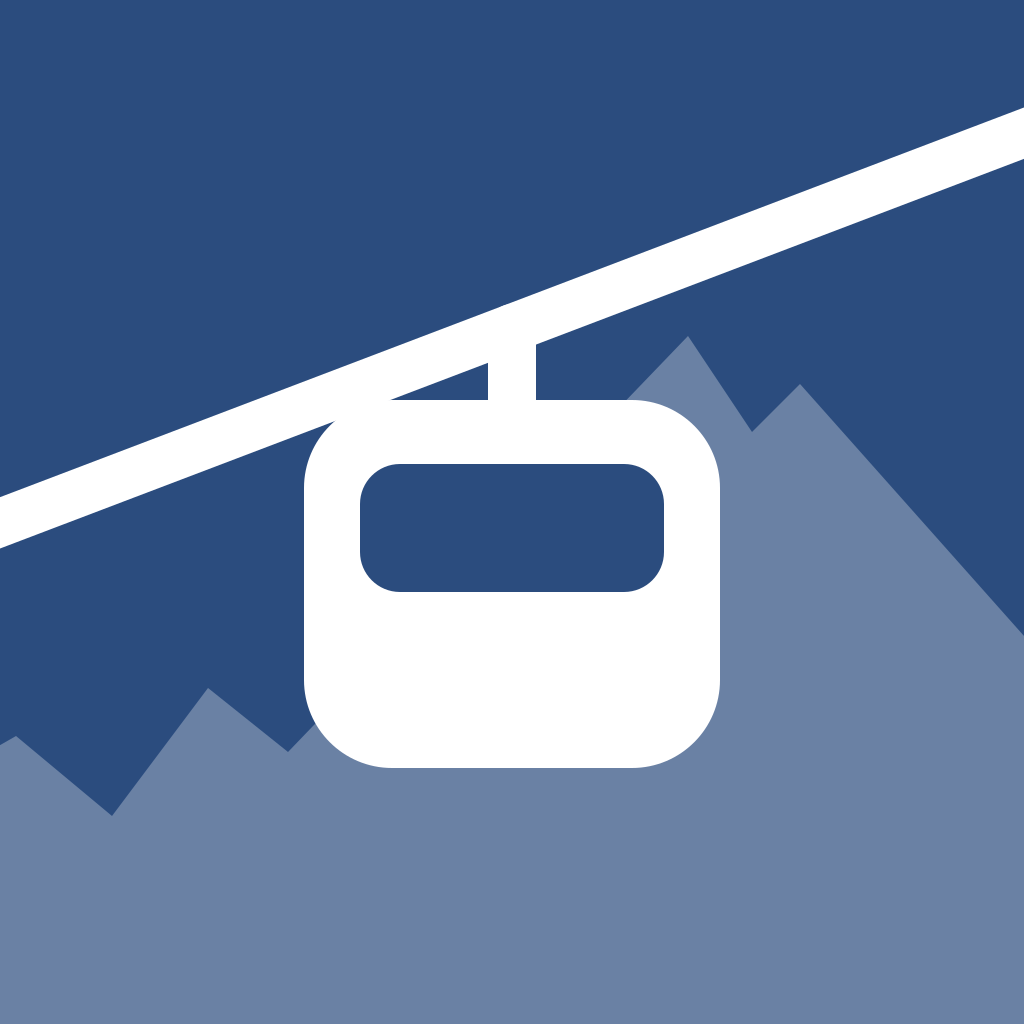
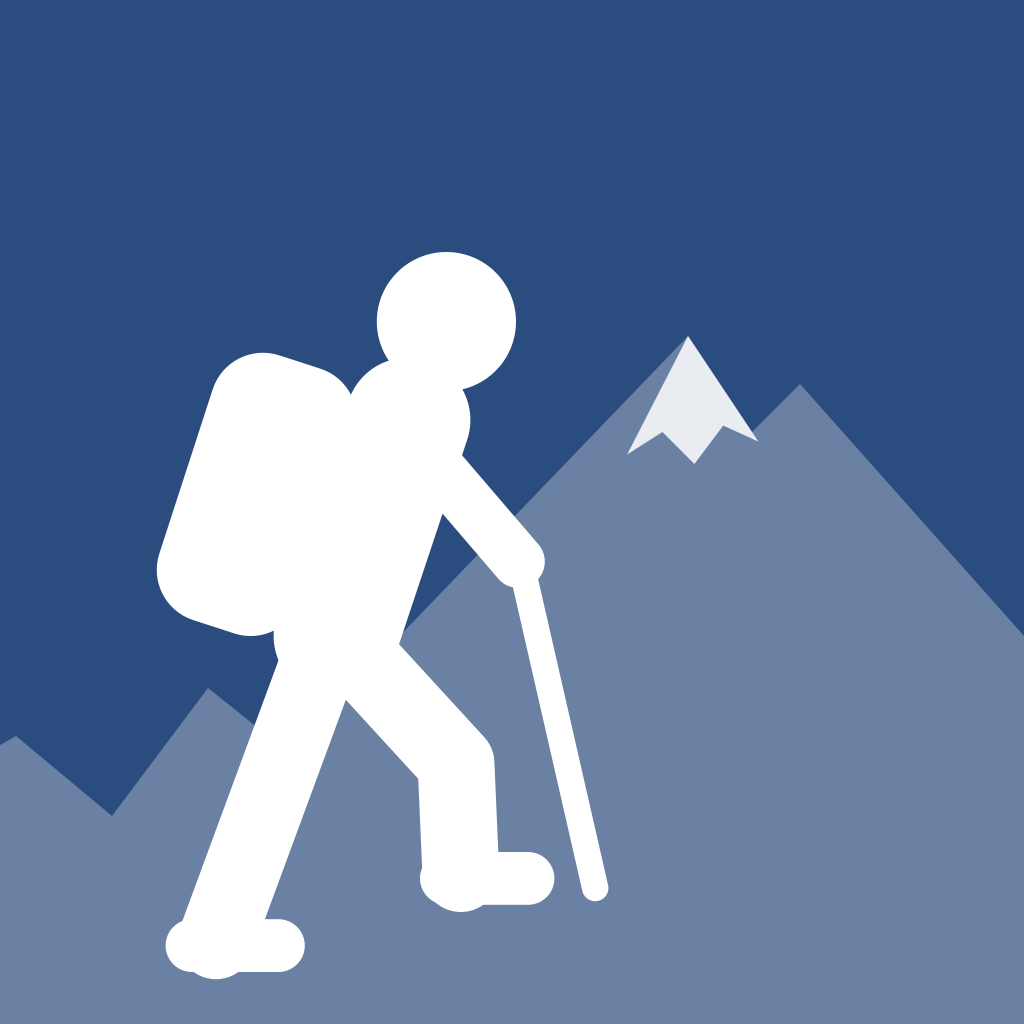
design(logga): vandrare uppför glaciärberget ersätter kabinbanan
- Loggan: en vit vandrare i profil med ryggsäck och stav på väg uppför
  berget, som nu har en glaciär på toppen (Oscars önskemål). Fliken och
  favicon får en förenklad variant med större vandrare och utan glaciär.
  LogoMark, icon.svg, favicon.ico, apple-icon.png och docs/logga/ är
  omgjorda; testet bekräftar att komponenten och loggfilen har samma former.
- Bakgrunden: kabinbanan är borttagen (lina, mast, stationer, kabin).
  Glaciärer på huvudberget och topparna bakom, med en åskant i bergets ton
  så att snön syns mot ljus himmel, och platta moln på himlen. Snöfärgen
  (--snow) är vit i ljust läge och ljust blågrå i mörkt läge.
- AGENTS.md, DESIGN.md, PRODUCT.md och docs/logga/README.md beskriver den
  nya loggan och bakgrunden.

Changed region(s): [[0.0, 0.0938, 1.0, 0.9688]]

diff --git a/src/components/mountain-backdrop.tsx b/src/components/mountain-backdrop.tsx
@@ -1,6 +1,7 @@
 /**
- * Sidans bakgrund (Oscar, 2026-11-09): en vandrare snett bakifrån på en stig
- * uppför loggans berg, med kabinbanan ovanför. Ligger stilla längst ner bakom
+ * Sidans bakgrund (Oscar, 2026-11-09, glaciärer och moln 2026-11-10): en
+ * vandrare snett bakifrån på en stig uppför loggans berg, med glaciärer på
+ * topparna och moln på himlen. Ligger stilla längst ner bakom
  * innehållet, i dämpade toner av temats färger, så den följer ljust och mörkt
  * läge. Dekorativ och utan klick.
  */
@@ -28,21 +29,67 @@ const trailSegments = TRAIL.slice(0, -1).map((p1, i) => {
   return { d: `M${p1} C${c1} ${c2} ${p2}`, width: Math.round(34 * 0.78 ** i * 10) / 10 };
 });
 
+// Snötäcken på topparna i bergskedjan bakom (huvudberget täcker en del av dem).
+const FAR_GLACIERS = [
+  "M-508 546 L-470 520 L-434 546 L-446 542 L-456 552 L-468 540 L-482 552 L-494 542 Z",
+  "M293 550 L330 520 L373 551 L360 546 L350 556 L338 544 L322 556 L308 546 Z",
+  "M1374 476 L1390 450 L1423 476 L1412 472 L1402 482 L1394 470 L1384 480 Z",
+  "M1892 496 L1930 470 L1967 497 L1956 492 L1946 502 L1934 490 L1920 502 L1906 492 Z",
+];
+
+// Åskanten ovanför varje snötäcke i kedjan bakom.
+const FAR_RIDGES = ["M-512 549 L-470 520 L-430 549", "M289 553 L330 520 L377 554", "M1370 482 L1390 450 L1427 479", "M1888 499 L1930 470 L1971 500"];
+
+// Ett platt moln med rak undersida (bredd ca 240), och var molnen ligger på himlen.
+const CLOUD =
+  "M0 0 C-22 0 -30 -32 -6 -40 C-6 -68 30 -82 54 -66 C70 -98 124 -100 140 -64 C160 -80 196 -70 196 -44 C222 -46 236 -20 226 0 Z";
+const CLOUDS: ReadonlyArray<readonly [number, number, number]> = [
+  [-560, 170, 0.9], [300, 190, 1], [720, 96, 0.55], [1300, 140, 1.15], [1900, 210, 0.8],
+];
+
 const tint = (percent: number) => `color-mix(in oklab, var(--brand) ${percent}%, var(--paper))`;
 
 export function MountainBackdrop() {
   return (
     <div
       aria-hidden="true"
-      className="pointer-events-none fixed inset-x-0 bottom-[calc(4rem+env(safe-area-inset-bottom))] -z-10 h-[max(min(60vh,56.25vw),29vw)] opacity-55 md:bottom-0 md:left-60 dark:opacity-45 print:hidden"
+      className="pointer-events-none fixed inset-x-0 [--snow:#ffffff] dark:[--snow:color-mix(in_oklab,var(--brand)_42%,var(--paper))] bottom-[calc(4rem+env(safe-area-inset-bottom))] -z-10 h-[max(min(60vh,56.25vw),29vw)] opacity-55 md:bottom-0 md:left-60 dark:opacity-45 print:hidden"
     >
       {/* Scenen är bredare än den syns, så att den bara beskärs i sidled: bergstoppen ryms alltid. */}
       <svg viewBox="-800 0 3200 900" preserveAspectRatio="xMidYMax slice" focusable="false" className="size-full">
+        <g style={{ fill: tint(14) }}>
+          {CLOUDS.map(([x, y, scale]) => (
+            <path key={`${x} ${y}`} d={CLOUD} transform={`translate(${x} ${y}) scale(${scale})`} />
+          ))}
+        </g>
         <path
           d="M-800 640 L-690 580 L-600 610 L-470 520 L-360 600 L-250 560 L-130 610 L0 650 L120 570 L210 618 L330 520 L430 590 L520 556 L620 620 L1300 600 L1390 450 L1470 512 L1540 466 L1600 520 L1700 480 L1800 560 L1930 470 L2040 548 L2160 500 L2280 580 L2400 540 V900 H-800 Z"
           style={{ fill: tint(10) }}
         />
+        <g style={{ fill: "var(--snow)" }}>
+          {FAR_GLACIERS.map((d) => (
+            <path key={d} d={d} />
+          ))}
+        </g>
+        <g fill="none" strokeWidth={5} style={{ stroke: tint(10) }}>
+          {FAR_RIDGES.map((d) => (
+            <path key={d} d={d} />
+          ))}
+        </g>
         <path d={MOUNTAIN_PATH} style={{ fill: tint(22) }} />
+        {/* Glaciärerna på loggans berg: toppen med en isström nedåt, och den lägre toppen till höger. */}
+        <g style={{ fill: "var(--snow)" }}>
+          <path d="M935 320 L1050 200 L1120 305 L1104 330 L1092 318 L1080 360 L1068 420 L1056 400 L1046 350 L1030 372 L1012 342 L990 358 L972 330 L952 340 Z" />
+          <path d="M1170 300 L1204 266 L1243 305 L1232 312 L1222 300 L1212 322 L1198 306 L1186 316 Z" />
+        </g>
+        {/* Åskanten i bergets ton, så att snötopparna har en kontur även mot ljus himmel. */}
+        <path
+          d="M930 326 L1050 200 L1138 332 L1204 266 L1248 310"
+          fill="none"
+          strokeWidth={6}
+          strokeLinejoin="miter"
+          style={{ stroke: tint(22) }}
+        />
         <path
           d="M-800 800 C -500 780, -200 790, 0 812 C 300 772, 560 780, 760 806 C 1000 838, 1300 826, 1600 786 C 1900 760, 2200 790, 2400 800 V900 H-800 Z"
           style={{ fill: tint(34) }}
@@ -51,21 +98,6 @@ export function MountainBackdrop() {
           {trailSegments.map((s) => (
             <path key={s.d} d={s.d} strokeWidth={s.width} />
           ))}
-        </g>
-        {/* Linan från dalstationen upp till toppstationen strax under toppen, med en mast på vägen. */}
-        <path d="M-600 760 L1003 238" strokeWidth={3} style={{ stroke: tint(70) }} />
-        <rect x="-622" y="752" width="44" height="30" rx="3" style={{ fill: tint(55) }} />
-        <g strokeWidth={4} strokeLinecap="round" style={{ stroke: tint(55) }}>
-          <path d="M820 452 L824 300" />
-          <path d="M804 306 L844 293" />
-          <path d="M810 452 L838 452" />
-        </g>
-        <rect x="986" y="236" width="34" height="24" rx="3" style={{ fill: tint(55) }} />
-        {/* Kabinen, ovanför vandraren. */}
-        <g transform="translate(600 365)">
-          <path d="M12 0 v18" strokeWidth={4} strokeLinecap="round" className="stroke-primary" />
-          <rect x="-22" y="16" width="68" height="60" rx="14" className="fill-primary" />
-          <rect x="-13" y="26" width="50" height="20" rx="6" style={{ fill: "var(--paper)" }} />
         </g>
         <Hiker />
       </svg>

diff --git a/src/components/logo-mark.tsx b/src/components/logo-mark.tsx
@@ -1,10 +1,11 @@
 import { useId } from "react";
 
 /**
- * HP Lifts märke: en kabin på väg uppåt över ett berg, i en Skymningsblå ruta.
- * Färgerna kommer från temat (`primary` och `primary-foreground`), så märket
- * följer ljust och mörkt läge. Geometrin är densamma som i docs/logga/, där
- * filerna och reglerna för loggan finns. Dekorativt: namnet står bredvid.
+ * HP Lifts märke: en vandrare med ryggsäck och stav på väg uppför ett berg med
+ * glaciär, i en Skymningsblå ruta. Färgerna kommer från temat (`primary` och
+ * `primary-foreground`), så märket följer ljust och mörkt läge. Geometrin är
+ * densamma som i docs/logga/, där filerna och reglerna för loggan finns.
+ * Dekorativt: namnet står bredvid.
  */
 export function LogoMark({ className }: { className?: string }) {
   // Unikt id, eftersom sidomenyn och mobilens toppfält visar märket samtidigt.
@@ -21,12 +22,39 @@ export function LogoMark({ className }: { className?: string }) {
         <g opacity={0.3}>
           <path d="M-6 70V50l7-4 6 5 6-8 5 4 25-26 4 6 3-3 16 18V70z" className="fill-primary-foreground" />
         </g>
-        <g className="stroke-primary-foreground" strokeWidth={3} strokeLinecap="round">
-          <path d="M-4 34.2 68 6.8" />
-          <path d="M32 20.5v5" />
+        {/* Glaciären på toppen. */}
+        <path
+          d="M43 21 L47.4 27.6 L45.2 26.6 L43.4 29 L41.4 27 L39.2 28.4 Z"
+          className="fill-primary-foreground"
+          opacity={0.85}
+        />
+        {/* Vandraren i profil, fötterna i origo: ben i steg, kängor, framåtlutad kropp, stav, ryggsäck och huvud. */}
+        <g
+          transform="translate(21 60) scale(1.5)"
+          className="stroke-primary-foreground"
+          strokeLinecap="round"
+          strokeLinejoin="round"
+          fill="none"
+        >
+          <path d="M-0.5 -13 L-5 -0.8" strokeWidth={3.2} />
+          <path d="M0.6 -13 L5 -8.2 L5.2 -3.6" strokeWidth={3.2} />
+          <path d="M-6 -0.6 h3.6" strokeWidth={2.2} />
+          <path d="M4.6 -3.4 h3.4" strokeWidth={2.2} />
+          <path d="M0 -13.5 L3 -22.5" strokeWidth={5.2} />
+          <path d="M7.6 -17 L10.8 -3" strokeWidth={1.1} />
+          <path d="M3.4 -21.5 L7.6 -16.6" strokeWidth={2.2} />
+          <rect
+            x="-6.4"
+            y="-25.2"
+            width="6.2"
+            height="11.6"
+            rx="2.2"
+            transform="rotate(18 -3.3 -19.4)"
+            className="fill-primary-foreground"
+            stroke="none"
+          />
+          <circle cx="4.6" cy="-26.6" r="2.9" className="fill-primary-foreground" stroke="none" />
         </g>
-        <rect x="19" y="25" width="26" height="23" rx="5.5" className="fill-primary-foreground" />
-        <rect x="22.5" y="29" width="19" height="8" rx="2.5" className="fill-primary" />
       </g>
     </svg>
   );

diff --git a/DESIGN.md b/DESIGN.md
@@ -160,7 +160,7 @@ A warm paper-and-ink neutral scale with a single dusky blue; colour carries mean
 - **Bläck** (`--ink`): primary text and headings.
 - **Mjukt bläck** (`--ink-soft`): secondary body text and inactive nav labels.
 - **Dämpat bläck** (`--ink-muted`): meta text, captions, icons at rest.
-- **Papper** (`--paper`): the page background, flat. The one exception (Oscar, 2026-11-09): a muted scene fixed at the bottom of the window behind the content, a hiker seen from behind on a trail up the logo's mountain with the cable car above (`MountainBackdrop` in `src/components/mountain-backdrop.tsx`). It uses only tints of Skymningsblå and ink at reduced opacity, and cards must be opaque `bg-card` so text never sits on the scene.
+- **Papper** (`--paper`): the page background, flat. The one exception (Oscar, 2026-11-09): a muted scene fixed at the bottom of the window behind the content, a hiker seen from behind on a trail up the logo's mountain, with glaciers on the peaks and clouds in the sky (`MountainBackdrop` in `src/components/mountain-backdrop.tsx`). It uses only tints of Skymningsblå and ink at reduced opacity (the snow is `--snow`, set on the scene: white in light mode, a pale blue-grey in dark mode), and cards must be opaque `bg-card` so text never sits on the scene.
 - **Yta** (`--card`): cards, panels, inputs, popovers, sidebar and tab bar.
 - **Dimma** (`--mist`): hover rows, progress tracks, chips, subtle fills.
 - **Linje** (`--line`): 1px hairline borders and dividers.
@@ -222,7 +222,7 @@ Lugn is flat. Depth comes from tone (Papper behind, Yta in front) and 1px hairli
 
 ## Shapes
 
-Gently rounded, never pill-shaped. Small controls (chips, nav items, icon buttons) use 6–8px; buttons and inputs 8–10px; cards and panels 10px; menus and popovers 10px; dialogs 12px. `rounded-full` is reserved for avatars, status dots, progress bars, switches and the A–E answer letters. The wordmark's mark is a 28px Skymningsblå square with a 6px radius holding a cable-car cabin on its way up above a mountain: cabin, cable and hanger in `primary-foreground`, the mountain in the same colour at 30% opacity (`LogoMark` in `src/components/logo-mark.tsx`). Files, the simplified favicon version and the rules are in `docs/logga/`.
+Gently rounded, never pill-shaped. Small controls (chips, nav items, icon buttons) use 6–8px; buttons and inputs 8–10px; cards and panels 10px; menus and popovers 10px; dialogs 12px. `rounded-full` is reserved for avatars, status dots, progress bars, switches and the A–E answer letters. The wordmark's mark is a 28px Skymningsblå square with a 6px radius holding a hiker with backpack and pole walking up a mountain: the hiker in `primary-foreground`, the mountain in the same colour at 30% opacity with its glacier at 85% (`LogoMark` in `src/components/logo-mark.tsx`). Files, the simplified favicon version and the rules are in `docs/logga/`.
 
 ## Components
 

diff --git a/docs/logga/README.md b/docs/logga/README.md
@@ -5,8 +5,9 @@
   <img src="hp-lift-logga.svg" alt="HP Lift" height="64">
 </picture>
 
-En kabin på väg uppåt över ett berg, i en Skymningsblå ruta. Kabinen är "lyftet" i HP Lift, och
-linan pekar samma håll som poängen ska gå: uppåt. Bestämd av Oscar 2026-11-08.
+En vandrare med ryggsäck och stav på väg uppför ett berg med glaciär, i en Skymningsblå ruta. Vandraren
+går åt samma håll som poängen ska: uppåt. Bestämd av Oscar 2026-11-10 (ersatte kabinbanan från 2026-11-08).
+Samma berg och samma vandrare finns i sidans bakgrund (`src/components/mountain-backdrop.tsx`).
 
 ## Filer
 
@@ -15,7 +16,7 @@ linan pekar samma håll som poängen ska gå: uppåt. Bestämd av Oscar 2026-11-
 | `hp-lift-logga.svg` | Ordbilden (märke + "HP Lift") på ljus bakgrund |
 | `hp-lift-logga-mork.svg` | Ordbilden på mörk bakgrund |
 | `hp-lift-symbol.svg`, `hp-lift-symbol-mork.svg` | Bara märket, från 20 px och uppåt |
-| `hp-lift-symbol-liten.svg` | Förenklat märke under 20 px (större kabin, tjockare lina). Samma som `src/app/icon.svg` |
+| `hp-lift-symbol-liten.svg` | Förenklat märke under 20 px (större vandrare, ingen glaciär). Samma som `src/app/icon.svg` |
 | `hp-lift-app-ikon.svg`, `hp-lift-app-ikon-1024.png` | App-ikon utan rundade hörn (iOS och appbutiker rundar själva), t.ex. för Capacitor-appen |
 
 I appen ritas märket av `LogoMark` (`src/components/logo-mark.tsx`) i sidomenyn och i mobilens toppfält.
@@ -25,13 +26,13 @@ Det tar färgerna från temat, så det följer ljust och mörkt läge. Webbläsa
 ## Regler
 
 - **Färger:** ljust läge Skymningsblå `#2b4c7e` med vitt, mörkt läge `#8da9d6` med `#10161f`. Berget är
-  samma färg som kabinen med 30 % täckning. Inga andra färger, inga övertoningar och inga skuggor
+  samma färg som vandraren med 30 % täckning och glaciären med 85 %. Inga andra färger, inga övertoningar och inga skuggor
   (Lugn). Grönt och rött används aldrig i loggan.
 - **Text:** "HP Lift" i IBM Plex Sans SemiBold (600). I SVG-filerna är texten konturer, så de ser likadana
   ut utan typsnittet. Proportioner som i appen: märke 28 px, text 16 px, 10 px mellanrum.
 - **Storlek:** huvudmärket från 20 px. Mindre än så används det förenklade märket.
 - **Frizon:** minst en fjärdedel av märkets höjd fritt runt loggan.
-- **Ändra inte:** sträck, rotera, färga om eller lägg loggan på en rörig bild. Kabinen hänger alltid lodrätt.
+- **Ändra inte:** sträck, rotera, färga om eller lägg loggan på en rörig bild. Vandraren går alltid åt höger, uppför.
 
 ## Ändra loggan
 

diff --git a/AGENTS.md b/AGENTS.md
@@ -107,14 +107,15 @@ If a task seems to need one of these, stop and ask.
 ## 7. Design system "Lugn"
 Full reference: `DESIGN.md` (tokens, components, rules) with its sidecar `.impeccable/design.json`; product context in `PRODUCT.md`.
 - Flat surfaces, no heavy shadows or gradients. One exception (Oscar, 2026-11-09): the muted background scene (hiker on the logo's
-  mountain, cable car above) fixed at the bottom behind the content, `MountainBackdrop` in `src/components/mountain-backdrop.tsx`.
+  mountain, glaciers and clouds) fixed at the bottom behind the content, `MountainBackdrop` in `src/components/mountain-backdrop.tsx`.
   Because of it, cards use opaque `bg-card`, never a translucent `bg-card/70`.
 - One accent colour: blue `--brand` (`#2b4c7e` light, `#8da9d6` dark) in `src/app/globals.css`. Tailwind token: `primary`
   (`bg-primary`, `text-primary`; `ring` and `chart-1` also point to `--brand`); components also use `[var(--brand)]` directly.
   The shadcn `accent` token is only the pale tint `--accent-soft`, not the accent colour.
 - Green and red are used **only** for right and wrong answers — never for buttons, badges or decoration. One exception (Oscar, 2026-11-06): the veckoplan's priority badges ("Kritiskt" red, "Styrka" green).
 - Font: IBM Plex Sans.
-- Logo: a cable-car cabin on its way up above a mountain, on a Skymningsblå square (Oscar, 2026-11-08). In the app it is
+- Logo: a hiker with backpack and pole walking up a mountain with a glacier, on a Skymningsblå square (Oscar, 2026-11-10;
+  it replaced the cable car from 2026-11-08). In the app it is
   `LogoMark` (`src/components/logo-mark.tsx`); favicon and app icons are `src/app/icon.svg`, `favicon.ico` and `apple-icon.png`.
   Files and rules in `docs/logga/`.
 - Sidebar on desktop, tab bar on mobile.

diff --git a/PRODUCT.md b/PRODUCT.md
@@ -55,10 +55,11 @@ Confirmed differentiators against hpguiden, HP-appen and similar:
 ## Brand Commitments
 
 - Name: **HP Lift**. UI language Swedish.
-- Logo (Oscar, 2026-11-08): a cable-car cabin on its way up above a mountain, white on a Skymningsblå square, next to
+- Logo (Oscar, 2026-11-10, replacing the cable car from 2026-11-08): a hiker walking up a mountain with a glacier, white
+  on a Skymningsblå square, next to
   "HP Lift" in IBM Plex Sans SemiBold. Files and rules in `docs/logga/`.
-- Background scene (Oscar, 2026-11-09): a hiker seen from behind on a trail up the logo's mountain, with the cable car
-  above, muted at the bottom of every page.
+- Background scene (Oscar, 2026-11-09; glaciers and clouds, no cable car, 2026-11-10): a hiker seen from behind on a
+  trail up the logo's mountain, muted at the bottom of every page.
 - Voice: calm and matter-of-fact ("lugn och saklig", confirmed 2026-11-06). Direct, no guilt or hype, e.g. "Veckan har
   krympt så att dagarna inte blir för tunga".
 - The existing visual system is "Lugn" (`.superdesign/design-system.md`, AGENTS.md §7); green and red mean right and
